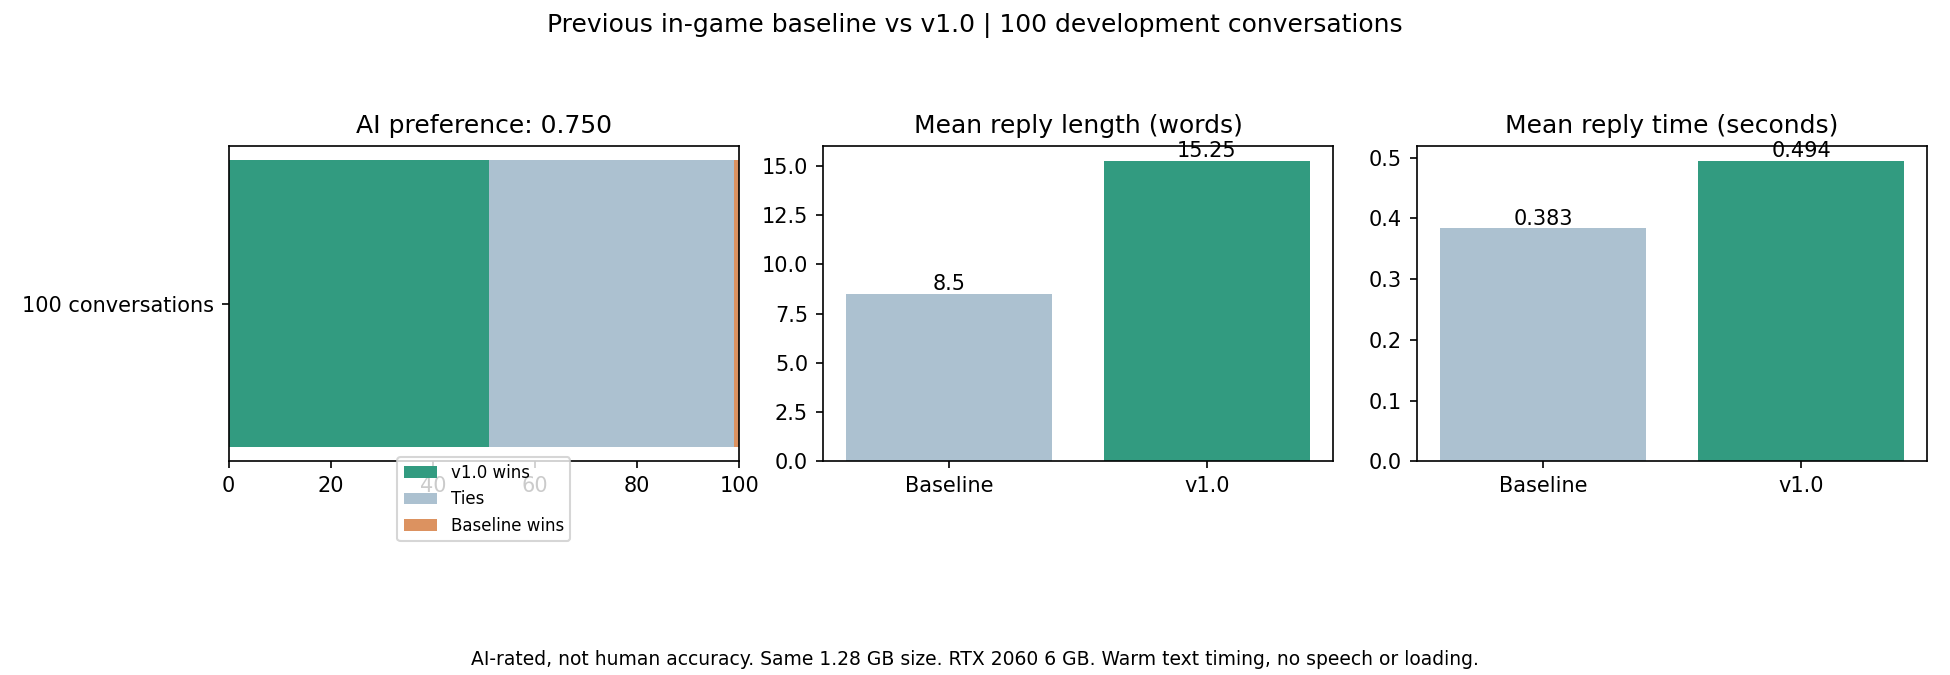
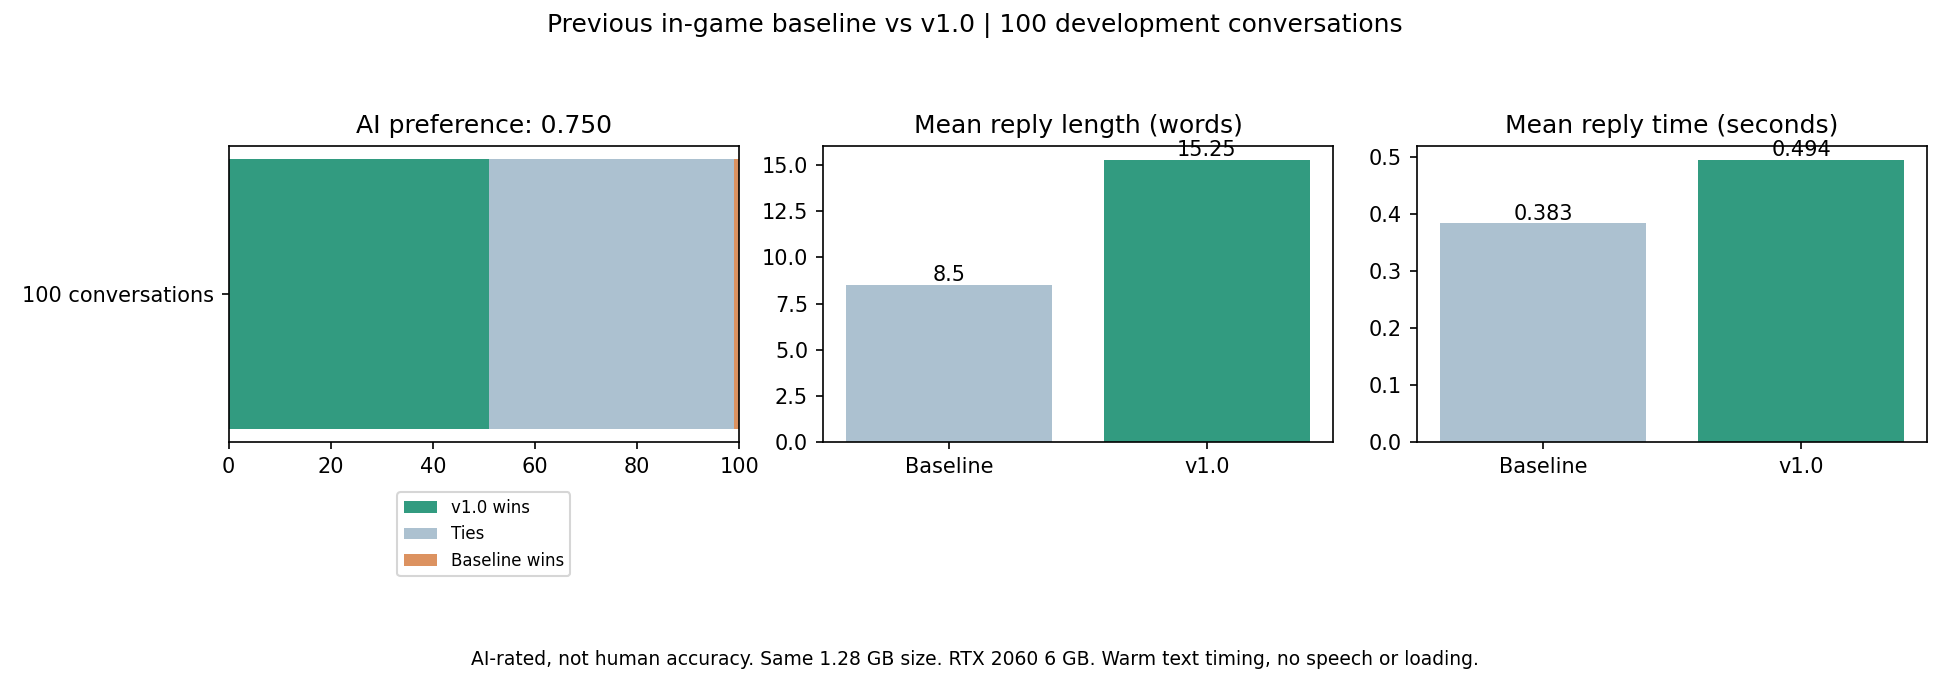
Release v1.0 preference student with measured results and response demo

diff --git a/inference/MODEL_CARD.md b/inference/MODEL_CARD.md
@@ -27,4 +27,4 @@ The development AI preference score was 0.750 over 100 conversations. This is no
 
 ## Limitations
 
-Replies can hallucinate facts, miss corrections, leak markup or stage directions, and drift from character instructions. The unedited demo includes such a formatting leak. JSON-constrained output does not guarantee clean natural speech inside the string. Keep authoritative game actions and state outside the model. Only RTX 2060 6 GB performance has been measured locally. Speech, startup, and other hardware are excluded from timing claims.
+Replies can hallucinate facts, miss corrections, leak markup or stage directions, and drift from character instructions. A previous capture exposed such a formatting leak. The new paired demo preserves its own replies unchanged. JSON-constrained output does not guarantee clean natural speech inside the string. Keep authoritative game actions and state outside the model. Only RTX 2060 6 GB performance has been measured locally. Speech, startup, and other hardware are excluded from timing claims.
